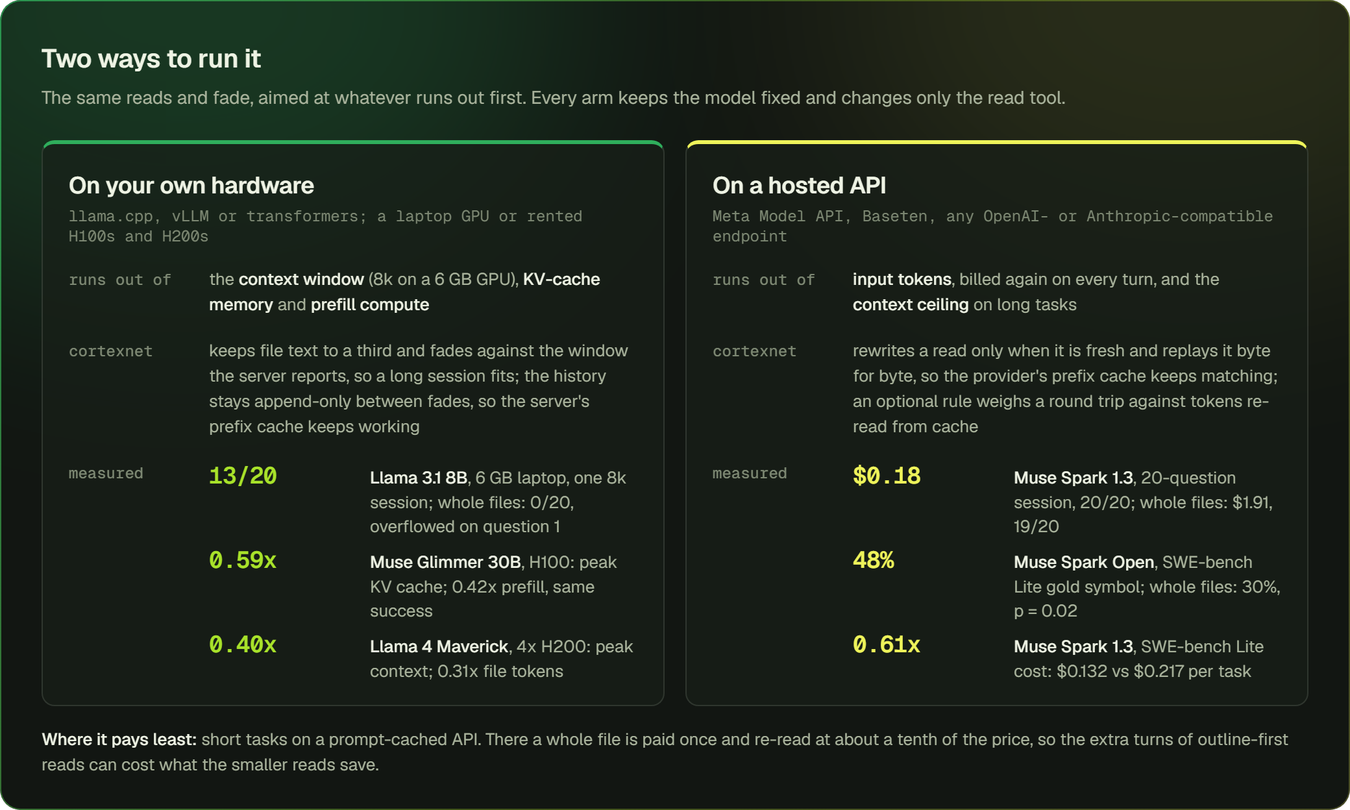
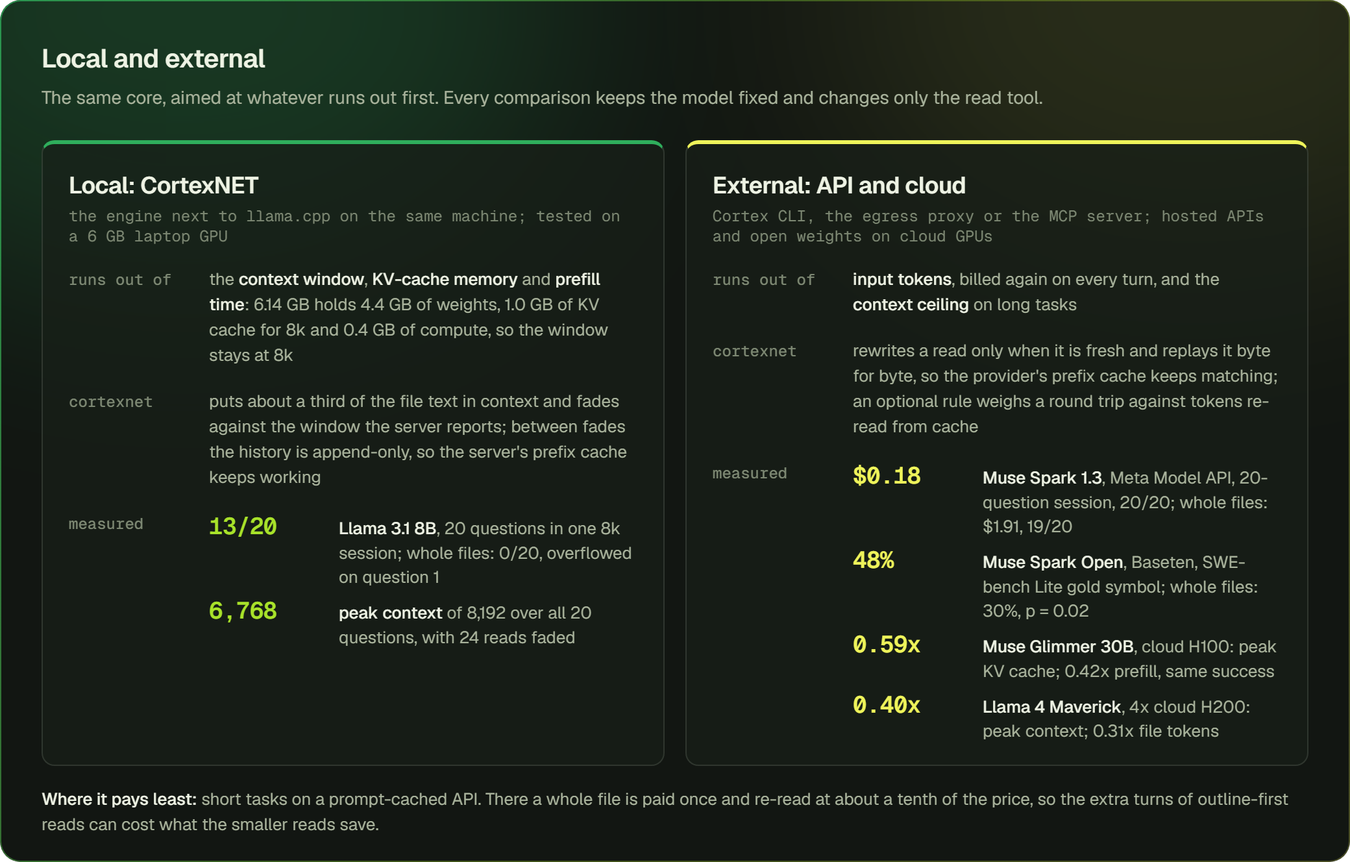
README: local CortexNET vs external sources (Cortex CLI for API and cloud models)

diff --git a/docs/readme/src/architecture.html b/docs/readme/src/architecture.html
@@ -1,9 +1,9 @@
 <!doctype html>
-<!-- README architecture: the CortexNET stack. Rendered to docs/readme/architecture.png by render.py (1040 x 664 CSS px at 2x). -->
+<!-- README architecture: one CortexNET core, local and external sides. Rendered to docs/readme/architecture.png by render.py (1040 x 720 CSS px at 2x). -->
 <html lang="en" style="color-scheme: dark">
 <head>
 <meta charset="utf-8">
-<title>The CortexNET stack</title>
+<title>CortexNET architecture</title>
 <link href="https://fonts.googleapis.com/css2?family=Geist:wght@400;500;600&family=Geist+Mono:wght@400;500&display=swap" rel="stylesheet">
 <style>
   :root {
@@ -11,95 +11,98 @@
     --green: #2fae5c; --lime: #a8e22a; --yellow: #eef35a; --rule: rgba(238, 243, 228, 0.12);
   }
   * { box-sizing: border-box; margin: 0; }
-  html, body { width: 1040px; height: 664px; background: transparent; overflow: hidden; }
+  html, body { width: 1040px; height: 720px; background: transparent; overflow: hidden; }
   body { font-family: 'Geist', 'Segoe UI', sans-serif; color: var(--ink); -webkit-font-smoothing: antialiased; }
-  .card { position: relative; width: 1040px; height: 664px; border-radius: 16px; overflow: hidden; padding: 32px; background: var(--paper); }
-  .card::before { content: ""; position: absolute; left: -200px; top: -220px; width: 640px; height: 440px; border-radius: 50%;
-    background: var(--green); opacity: 0.22; filter: blur(90px); }
+  .card { position: relative; width: 1040px; height: 720px; border-radius: 16px; overflow: hidden; padding: 32px; background: var(--paper); }
+  .glow { position: absolute; border-radius: 50%; filter: blur(90px); }
+  .g1 { left: -180px; top: -200px; width: 600px; height: 420px; background: var(--green); opacity: 0.22; }
+  .g2 { right: -160px; top: -200px; width: 560px; height: 400px; background: var(--yellow); opacity: 0.10; }
   .card::after { content: ""; position: absolute; inset: 0; border-radius: 16px; padding: 1px;
-    background: linear-gradient(120deg, rgba(47,174,92,0.8), rgba(168,226,42,0.3) 50%, rgba(238,243,228,0.08));
+    background: linear-gradient(120deg, rgba(47,174,92,0.8), rgba(168,226,42,0.3) 50%, rgba(238,243,90,0.25));
     -webkit-mask: linear-gradient(#000 0 0) content-box, linear-gradient(#000 0 0); -webkit-mask-composite: xor; }
   .content { position: relative; }
   h1 { font-size: 20px; font-weight: 600; letter-spacing: -0.01em; text-wrap: balance; }
   .caption { margin-top: 8px; font-size: 14px; color: var(--muted); }
 
-  .stack { margin-top: 24px; display: grid; gap: 8px; }
-  .layer { display: grid; grid-template-columns: 120px 1fr; gap: 12px; align-items: stretch; }
-  .lname { padding-top: 12px; font: 500 12px 'Geist Mono', Consolas, monospace; color: var(--soft); }
-  .cells { display: grid; gap: 8px; }
-  .cell { padding: 12px 16px; border-radius: 6px; background: var(--cell); border: 1px solid var(--rule); }
-  .cell h2 { font-size: 15px; font-weight: 600; }
-  .cell p { margin-top: 4px; font: 400 12px/1.5 'Geist Mono', Consolas, monospace; color: var(--muted); }
-  .cell p.limit { color: var(--ink); }
+  .cols { margin-top: 24px; display: grid; grid-template-columns: 1fr 32px 1.02fr 32px 1.3fr; align-items: stretch; }
+  .gut { display: flex; align-items: center; justify-content: center; }
+  .panel { border-radius: 10px; border: 1px solid var(--rule); background: rgba(24,32,24,0.7); padding: 16px; }
+  .panel.local { border-top: 3px solid var(--green); }
+  .panel.ext { border-top: 3px solid var(--yellow); }
+  .head { display: flex; align-items: baseline; gap: 8px; flex-wrap: wrap; }
+  .panel h2 { font-size: 18px; font-weight: 600; letter-spacing: -0.01em; }
+  .tag { font: 500 12px 'Geist Mono', Consolas, monospace; padding: 2px 6px; border-radius: 4px; border: 1px solid var(--rule); }
+  .local .tag { color: var(--lime); }
+  .ext .tag { color: var(--yellow); }
+  .lede { margin-top: 8px; font-size: 13px; line-height: 1.5; color: var(--muted); }
 
-  .agents .cells { grid-template-columns: repeat(6, 1fr); }
-  .agents .cell { padding: 10px 12px; background: rgba(169,179,156,0.08); text-align: center; font-size: 14px; font-weight: 500; }
-  .ways .cells { grid-template-columns: repeat(4, 1fr); }
+  .k { margin-top: 14px; font: 500 12px 'Geist Mono', Consolas, monospace; color: var(--soft); }
+  .item { margin-top: 6px; padding: 8px 10px; border-radius: 6px; background: var(--cell); border: 1px solid var(--rule); }
+  .item b { display: block; font-size: 14px; font-weight: 600; }
+  .item span { display: block; margin-top: 2px; font: 400 12px/1.45 'Geist Mono', Consolas, monospace; color: var(--muted); }
+  .limit { margin-top: 6px; font: 400 12px/1.5 'Geist Mono', Consolas, monospace; color: var(--ink); }
+  .ways .item b, .ways .item span { display: inline; }
+  .ways .item span { margin-left: 6px; }
 
-  .core .lname { color: var(--lime); }
-  .core .cells { grid-template-columns: 1.15fr 1fr 1fr 1fr; padding: 8px; border-radius: 8px; position: relative;
-    background: rgba(168,226,42,0.07); }
-  .core .cells::before { content: ""; position: absolute; inset: 0; border-radius: 8px; padding: 1.5px;
-    background: linear-gradient(110deg, var(--green), var(--lime) 55%, var(--yellow));
+  .core { position: relative; border-radius: 10px; padding: 16px; background: rgba(168,226,42,0.07); }
+  .core::before { content: ""; position: absolute; inset: 0; border-radius: 10px; padding: 1.5px;
+    background: linear-gradient(160deg, var(--green), var(--lime) 55%, var(--yellow));
     -webkit-mask: linear-gradient(#000 0 0) content-box, linear-gradient(#000 0 0); -webkit-mask-composite: xor; }
-  .core .cell { background: rgba(18,22,18,0.75); }
-
-  .models .cells { grid-template-columns: 1fr 1fr; }
-  .models .cell { background: rgba(238,243,228,0.03); border-color: rgba(238,243,228,0.24); }
-  .models .cell.local { border-left: 3px solid var(--green); }
-  .models .cell.hosted { border-left: 3px solid var(--yellow); }
-
-  .note { margin-top: 16px; padding-top: 12px; border-top: 1px solid var(--rule); font-size: 13px; color: var(--muted); }
-  .note b { color: var(--ink); font-weight: 500; }
+  .core h2 { font-size: 18px; font-weight: 600; }
+  .core .item { background: rgba(18,22,18,0.8); }
+  .core .foot { margin-top: 12px; font-size: 13px; line-height: 1.45; color: var(--muted); }
+  .core .foot b { color: var(--ink); font-weight: 500; }
 </style>
 </head>
 <body>
-<div class="card"><div class="content">
-  <h1>The CortexNET stack</h1>
-  <p class="caption">A context layer between any coding agent and any model, local or hosted. The agent's tools and prompts stay as they are.</p>
+<div class="card">
+  <div class="glow g1"></div><div class="glow g2"></div>
+  <div class="content">
+    <h1>One engine, local or external</h1>
+    <p class="caption">The core decides which file text reaches the model. Locally it runs next to your own model; external sources reach the same core.</p>
 
-  <div class="stack">
-    <div class="layer agents">
-      <p class="lname">agents</p>
-      <div class="cells">
-        <div class="cell">Claude Code</div><div class="cell">Codex</div><div class="cell">Antigravity</div>
-        <div class="cell">any MCP client</div><div class="cell">your own loop</div><div class="cell">Cortex CLI</div>
+    <div class="cols">
+      <div class="panel local">
+        <div class="head"><h2>Local</h2><span class="tag">CortexNET</span></div>
+        <p class="lede">The engine next to a model on your own GPU, inside your own agent loop.</p>
+        <p class="k">way in</p>
+        <div class="item"><b>Python library</b><span>Reader, watermark_fade</span></div>
+        <p class="k">model</p>
+        <div class="item"><b>llama.cpp on the same machine</b><span>tested: Llama 3.1 8B on a 6 GB laptop GPU, 8k context</span></div>
+        <p class="k">runs out of</p>
+        <p class="limit">the context window, KV-cache memory and prefill time</p>
       </div>
-    </div>
 
-    <div class="layer ways">
-      <p class="lname">ways in</p>
-      <div class="cells">
-        <div class="cell"><h2>MCP server</h2><p>cortex_read, cortex_range, cortex_outline tools</p></div>
-        <div class="cell"><h2>Egress proxy</h2><p>swaps whole-file reads in the agent's API traffic; no tool changes</p></div>
-        <div class="cell"><h2>Python library</h2><p>Reader and watermark_fade inside your own agent loop</p></div>
-        <div class="cell"><h2>Built in</h2><p>Cortex CLI, a terminal coding agent with all of it inside</p></div>
+      <div class="gut"><svg width="32" height="16" viewBox="0 0 32 16" aria-hidden="true"><path d="M2 8 H30 M8 3 L2 8 L8 13 M24 3 L30 8 L24 13" fill="none" stroke="#a9b39c" stroke-width="1.2"/></svg></div>
+
+      <div class="core">
+        <h2>CortexNET core</h2>
+        <div class="item"><b>Reads</b><span>outline + the bodies an include model picks; small files whole</span></div>
+        <div class="item"><b>Context</b><span>watermark fade: at 85%, stale reads become outlines, down to 50%, in one batch</span></div>
+        <div class="item"><b>Anticipation</b><span>a spiking file manager predicts the next files</span></div>
+        <div class="item"><b>Learning</b><span>every range read is a miss that trains the include model, kept across sessions</span></div>
+        <p class="foot"><b>It never calls your model.</b> It shapes the reads the model is given.</p>
       </div>
-    </div>
 
-    <div class="layer core">
-      <p class="lname">cortexnet core</p>
-      <div class="cells">
-        <div class="cell"><h2>Reads</h2><p>outline + the bodies an include model picks; small files whole; optional cost rule for prefix-cached APIs</p></div>
-        <div class="cell"><h2>Context</h2><p>watermark fade: at 85% stale reads become outlines, down to 50%, in one batch (CLI, your own loop)</p></div>
-        <div class="cell"><h2>Anticipation</h2><p>spiking file manager predicts the next files; the CLI parses them before they are asked for</p></div>
-        <div class="cell"><h2>Learning</h2><p>every range read is a miss that trains the include model, kept across sessions</p></div>
-      </div>
-    </div>
+      <div class="gut"><svg width="32" height="16" viewBox="0 0 32 16" aria-hidden="true"><path d="M2 8 H30 M8 3 L2 8 L8 13 M24 3 L30 8 L24 13" fill="none" stroke="#a9b39c" stroke-width="1.2"/></svg></div>
 
-    <div class="layer models">
-      <p class="lname">models</p>
-      <div class="cells">
-        <div class="cell local"><h2>Your hardware</h2><p>llama.cpp, vLLM, transformers: a 6 GB laptop GPU up to 4x H200</p>
-          <p class="limit">runs out of: context window, KV-cache memory, prefill compute</p></div>
-        <div class="cell hosted"><h2>Hosted API</h2><p>Meta Model API, Baseten, any OpenAI- or Anthropic-compatible endpoint</p>
-          <p class="limit">runs out of: input tokens billed on every turn, the context ceiling</p></div>
+      <div class="panel ext">
+        <div class="head"><h2>External sources</h2><span class="tag">API and cloud models</span></div>
+        <p class="lede">Agents and models that run somewhere else reach the same core.</p>
+        <p class="k">ways in</p>
+        <div class="ways">
+          <div class="item"><b>Cortex CLI</b><span>made to be tested on API and cloud models</span></div>
+          <div class="item"><b>Egress proxy</b><span>Claude Code, Codex, Antigravity, unchanged</span></div>
+          <div class="item"><b>MCP server</b><span>any MCP client</span></div>
+        </div>
+        <p class="k">models</p>
+        <div class="item"><b>Hosted APIs</b><span>Meta Model API (Muse Spark 1.3), Baseten (Muse Spark Open)</span></div>
+        <div class="item"><b>Cloud GPUs</b><span>open weights on Modal: Muse Glimmer 30B, Llama 3.3 70B, Llama 4 Maverick</span></div>
+        <p class="k">runs out of</p>
+        <p class="limit">input tokens billed on every turn, and the context ceiling on long tasks</p>
       </div>
     </div>
   </div>
-
-  <p class="note"><b>The core never calls your model.</b> It decides which file text reaches the model's context, so the same reads and fade
-    work for an open model on your own GPU and for a paid API.</p>
-</div></div>
+</div>
 </body>
 </html>

diff --git a/docs/readme/src/deployments.html b/docs/readme/src/deployments.html
@@ -1,9 +1,9 @@
 <!doctype html>
-<!-- README: CortexNET on your own hardware vs on a hosted API. Rendered to docs/readme/deployments.png by render.py (1040 x 624 CSS px at 2x). -->
+<!-- README: CortexNET locally vs external sources (API and cloud models). Rendered to docs/readme/deployments.png by render.py (1040 x 664 CSS px at 2x). -->
 <html lang="en" style="color-scheme: dark">
 <head>
 <meta charset="utf-8">
-<title>Local and hosted</title>
+<title>Local and external</title>
 <link href="https://fonts.googleapis.com/css2?family=Geist:wght@400;500;600&family=Geist+Mono:wght@400;500;600&display=swap" rel="stylesheet">
 <style>
   :root {
@@ -11,9 +11,9 @@
     --green: #2fae5c; --lime: #a8e22a; --yellow: #eef35a; --rule: rgba(238, 243, 228, 0.12);
   }
   * { box-sizing: border-box; margin: 0; }
-  html, body { width: 1040px; height: 624px; background: transparent; overflow: hidden; }
+  html, body { width: 1040px; height: 664px; background: transparent; overflow: hidden; }
   body { font-family: 'Geist', 'Segoe UI', sans-serif; color: var(--ink); -webkit-font-smoothing: antialiased; }
-  .card { position: relative; width: 1040px; height: 624px; border-radius: 16px; overflow: hidden; padding: 32px; background: var(--paper); }
+  .card { position: relative; width: 1040px; height: 664px; border-radius: 16px; overflow: hidden; padding: 32px; background: var(--paper); }
   .glow { position: absolute; border-radius: 50%; filter: blur(90px); }
   .g1 { left: -160px; top: -200px; width: 600px; height: 420px; background: var(--green); opacity: 0.22; }
   .g2 { right: -160px; top: -200px; width: 560px; height: 400px; background: var(--yellow); opacity: 0.10; }
@@ -36,7 +36,7 @@
   .v { font-size: 13px; line-height: 1.5; color: var(--muted); }
   .v b { color: var(--ink); font-weight: 500; }
 
-  .m { display: grid; grid-template-columns: 112px 1fr; gap: 4px 12px; align-items: baseline; }
+  .m { display: grid; grid-template-columns: 88px 1fr; gap: 4px 12px; align-items: baseline; }
   .n { font: 600 18px 'Geist Mono', Consolas, monospace; letter-spacing: -0.02em; white-space: nowrap; font-variant-numeric: tabular-nums; }
   .local .n { color: var(--lime); }
   .hosted .n { color: var(--yellow); }
@@ -51,29 +51,29 @@
 <div class="card">
   <div class="glow g1"></div><div class="glow g2"></div>
   <div class="content">
-    <h1>Two ways to run it</h1>
-    <p class="caption">The same reads and fade, aimed at whatever runs out first. Every arm keeps the model fixed and changes only the read tool.</p>
+    <h1>Local and external</h1>
+    <p class="caption">The same core, aimed at whatever runs out first. Every comparison keeps the model fixed and changes only the read tool.</p>
 
     <div class="cols">
       <div class="col local">
-        <h2>On your own hardware</h2>
-        <p class="where">llama.cpp, vLLM or transformers; a laptop GPU or rented H100s and H200s</p>
+        <h2>Local: CortexNET</h2>
+        <p class="where">the engine next to llama.cpp on the same machine; tested on a 6 GB laptop GPU</p>
         <div class="row"><p class="k">runs out of</p>
-          <p class="v">the <b>context window</b> (8k on a 6 GB GPU), <b>KV-cache memory</b> and <b>prefill compute</b></p></div>
+          <p class="v">the <b>context window</b>, <b>KV-cache memory</b> and <b>prefill time</b>: 6.14 GB holds 4.4 GB of weights,
+            1.0 GB of KV cache for 8k and 0.4 GB of compute, so the window stays at 8k</p></div>
         <div class="row"><p class="k">cortexnet</p>
-          <p class="v">keeps file text to a third and fades against the window the server reports, so a long session fits; the
-            history stays append-only between fades, so the server's prefix cache keeps working</p></div>
+          <p class="v">puts about a third of the file text in context and fades against the window the server reports; between
+            fades the history is append-only, so the server's prefix cache keeps working</p></div>
         <div class="row"><p class="k">measured</p>
           <div class="m">
-            <p class="n">13/20</p><p class="d"><b>Llama 3.1 8B</b>, 6 GB laptop, one 8k session; whole files: 0/20, overflowed on question 1</p>
-            <p class="n">0.59x</p><p class="d"><b>Muse Glimmer 30B</b>, H100: peak KV cache; 0.42x prefill, same success</p>
-            <p class="n">0.40x</p><p class="d"><b>Llama 4 Maverick</b>, 4x H200: peak context; 0.31x file tokens</p>
+            <p class="n">13/20</p><p class="d"><b>Llama 3.1 8B</b>, 20 questions in one 8k session; whole files: 0/20, overflowed on question 1</p>
+            <p class="n">6,768</p><p class="d"><b>peak context</b> of 8,192 over all 20 questions, with 24 reads faded</p>
           </div></div>
       </div>
 
       <div class="col hosted">
-        <h2>On a hosted API</h2>
-        <p class="where">Meta Model API, Baseten, any OpenAI- or Anthropic-compatible endpoint</p>
+        <h2>External: API and cloud</h2>
+        <p class="where">Cortex CLI, the egress proxy or the MCP server; hosted APIs and open weights on cloud GPUs</p>
         <div class="row"><p class="k">runs out of</p>
           <p class="v"><b>input tokens</b>, billed again on every turn, and the <b>context ceiling</b> on long tasks</p></div>
         <div class="row"><p class="k">cortexnet</p>
@@ -81,9 +81,10 @@
             matching; an optional rule weighs a round trip against tokens re-read from cache</p></div>
         <div class="row"><p class="k">measured</p>
           <div class="m">
-            <p class="n">$0.18</p><p class="d"><b>Muse Spark 1.3</b>, 20-question session, 20/20; whole files: $1.91, 19/20</p>
-            <p class="n">48%</p><p class="d"><b>Muse Spark Open</b>, SWE-bench Lite gold symbol; whole files: 30%, p = 0.02</p>
-            <p class="n">0.61x</p><p class="d"><b>Muse Spark 1.3</b>, SWE-bench Lite cost: $0.132 vs $0.217 per task</p>
+            <p class="n">$0.18</p><p class="d"><b>Muse Spark 1.3</b>, Meta Model API, 20-question session, 20/20; whole files: $1.91, 19/20</p>
+            <p class="n">48%</p><p class="d"><b>Muse Spark Open</b>, Baseten, SWE-bench Lite gold symbol; whole files: 30%, p = 0.02</p>
+            <p class="n">0.59x</p><p class="d"><b>Muse Glimmer 30B</b>, cloud H100: peak KV cache; 0.42x prefill, same success</p>
+            <p class="n">0.40x</p><p class="d"><b>Llama 4 Maverick</b>, 4x cloud H200: peak context; 0.31x file tokens</p>
           </div></div>
       </div>
     </div>

diff --git a/docs/readme/src/workflow.html b/docs/readme/src/workflow.html
@@ -20,7 +20,7 @@
 <body>
 <svg width="1040" height="600" viewBox="0 0 1040 600" role="img" aria-labelledby="workflow-title workflow-desc">
   <title id="workflow-title">One read through CortexNET</title>
-  <desc id="workflow-desc">Whichever way the read arrives (MCP tool, proxied read, Cortex CLI or the Python library), CortexNET returns the
+  <desc id="workflow-desc">Whichever way the read arrives (CortexNET in your own loop locally, or Cortex CLI, the proxy or the MCP server for external sources), CortexNET returns the
     file's outline and the bodies its include model picks. If the agent needs a body it was not shown, it asks for those lines: the range read
     returns them and is logged as a miss that trains the include model for the next read. Otherwise the history is faded once it passes 85% of
     the context, down to 50%, and the next read starts. In Cortex CLI a spiking file manager warms the next files ahead of the read.</desc>
@@ -43,7 +43,7 @@
   <rect x="0.5" y="0.5" width="1039" height="599" rx="16" fill="none" stroke="url(#wf-edge)"/>
 
   <text class="title" x="32" y="48">One read through CortexNET</text>
-  <text class="caption" x="32" y="76">The same loop behind the MCP server, the proxy, Cortex CLI and the Python library, on any model.</text>
+  <text class="caption" x="32" y="76">The same loop locally (CortexNET in your own loop) and for external sources (Cortex CLI, the proxy, the MCP server).</text>
 
   <!-- connectors -->
   <line x1="332" y1="160" x2="332" y2="198" stroke="#a9b39c" stroke-width="1" stroke-dasharray="4,3" marker-end="url(#wf-arrow)"/>
@@ -104,7 +104,7 @@
   <text class="lbl" x="392" y="576">learning loop</text>
   <rect x="520" y="564" width="32" height="16" rx="3" fill="none" stroke="rgba(238,243,228,0.30)" stroke-dasharray="4,3"/>
   <text class="lbl" x="560" y="576">only in Cortex CLI</text>
-  <text class="lbl" x="728" y="576">Fade: Cortex CLI and your own loop.</text>
+  <text class="lbl" x="728" y="576">Fade: local CortexNET, Cortex CLI.</text>
 </svg>
 </body>
 </html>

diff --git a/docs/readme/src/hero.html b/docs/readme/src/hero.html
@@ -47,7 +47,7 @@
   .what { margin-top: 4px; font-size: 13px; line-height: 1.45; color: var(--muted); }
 
   .surfaces { position: absolute; left: 48px; right: 48px; bottom: 28px; display: flex; gap: 8px; align-items: center; font-size: 13px; color: var(--soft); }
-  .chip { font-family: 'Geist Mono', monospace; font-size: 12px; padding: 4px 8px; border-radius: 4px; border: 1px solid var(--rule); color: var(--ink); background: rgba(15,19,14,0.6); }
+  .chip { white-space: nowrap; font-family: 'Geist Mono', monospace; font-size: 12px; padding: 4px 8px; border-radius: 4px; border: 1px solid var(--rule); color: var(--ink); background: rgba(15,19,14,0.6); }
   .surfaces .note { margin-left: auto; }
 </style>
 </head>
@@ -56,7 +56,7 @@
   <div class="glow g1"></div><div class="glow g2"></div><div class="glow g3"></div>
   <div class="content">
     <h1>CortexNET gives a coding agent the outline of a file and only the code its next step needs.</h1>
-    <p class="lede">It sits between any coding agent and any model. On your own GPU it keeps a long session inside a small context window; on a hosted API it cuts the tokens you pay for.</p>
+    <p class="lede">Locally, CortexNET keeps a long coding session inside the small context window of a model on your own GPU. With API and cloud models, it cuts the tokens you pay for.</p>
 
     <div class="stats">
       <div class="stat">
@@ -82,8 +82,8 @@
     </div>
   </div>
   <div class="surfaces">
-    <span class="chip">MCP server</span><span class="chip">egress proxy</span><span class="chip">Python library</span><span class="chip">Cortex CLI</span>
-    <span class="note">Same model in both arms, only the read tool changes</span>
+    <span class="chip">CortexNET: local</span><span class="chip">Cortex CLI: API and cloud</span><span class="chip">egress proxy</span><span class="chip">MCP server</span>
+    <span class="note">Only the read tool changes between arms</span>
   </div>
 </div>
 </body>

diff --git a/docs/readme/src/render.py b/docs/readme/src/render.py
@@ -10,7 +10,7 @@ import tempfile
 
 HERE = os.path.dirname(os.path.abspath(__file__))
 OUT = os.path.dirname(HERE)
-PAGES = {"hero": (960, 424), "architecture": (1040, 664), "deployments": (1040, 624), "workflow": (1040, 600)}   # CSS px; each page fixes its body to this
+PAGES = {"hero": (960, 424), "architecture": (1040, 720), "deployments": (1040, 664), "workflow": (1040, 600)}   # CSS px; each page fixes its body to this
 BROWSERS = [r"C:\Program Files\Google\Chrome\Application\chrome.exe",
             r"C:\Program Files (x86)\Microsoft\Edge\Application\msedge.exe", "google-chrome", "chromium"]
 

diff --git a/README.md b/README.md
@@ -7,22 +7,22 @@
 
 <p align="center">
   <img src="docs/readme/hero.png" width="900"
-       alt="CortexNET gives a coding agent the outline of a file and only the code its next step needs. It sits between any coding agent and any model: on your own GPU it keeps a long session inside a small context window; on a hosted API it cuts the tokens you pay for. Results: Muse Spark 1.3, $0.18 vs $1.91 for a 20-question session at 20/20 correct (whole-file reads 19/20); Muse Spark Open, 48% vs 30% gold symbol on SWE-bench Lite (7 won, 0 lost, p = 0.02); Llama 3.1 8B, 13/20 vs 0/20 in one 8k session on a 6 GB laptop GPU; Muse Glimmer 30B, 0.42x prefill tokens on SWE-bench Lite with the same task success. Ways in: MCP server, egress proxy, Python library, Cortex CLI.">
+       alt="CortexNET gives a coding agent the outline of a file and only the code its next step needs. Locally, CortexNET keeps a long coding session inside the small context window of a model on your own GPU; with API and cloud models it cuts the tokens you pay for. Results: Muse Spark 1.3, $0.18 vs $1.91 for a 20-question session at 20/20 correct (whole-file reads 19/20); Muse Spark Open, 48% vs 30% gold symbol on SWE-bench Lite (7 won, 0 lost, p = 0.02); Llama 3.1 8B, 13/20 vs 0/20 in one 8k session on a 6 GB laptop GPU; Muse Glimmer 30B, 0.42x prefill tokens on SWE-bench Lite with the same task success. CortexNET runs locally; Cortex CLI, the egress proxy and the MCP server serve API and cloud models.">
 </p>
 
 <p align="center">
   <img src="docs/readme/architecture.png" width="900"
-       alt="The CortexNET stack. Agents: Claude Code, Codex, Antigravity, any MCP client, your own loop, Cortex CLI. Ways in: the MCP server (cortex_read, cortex_range, cortex_outline), the egress proxy (swaps whole-file reads in the agent's API traffic, no tool changes), the Python library (Reader and watermark_fade in your own loop), and Cortex CLI with all of it built in. The core: reads (outline plus the bodies an include model picks, small files whole, an optional cost rule for prefix-cached APIs), context (watermark fade from 85% to 50% in one batch, in Cortex CLI and your own loop), anticipation (a spiking file manager predicts the next files, which the CLI parses ahead), and learning (every range read is a miss that trains the include model, kept across sessions). Models: your hardware (llama.cpp, vLLM, transformers, from a 6 GB laptop GPU to 4x H200; it runs out of context window, KV-cache memory and prefill compute) or a hosted API (Meta Model API, Baseten, any OpenAI- or Anthropic-compatible endpoint; it runs out of input tokens billed on every turn and the context ceiling). The core never calls the model.">
+       alt="One engine, local or external. In the middle, the CortexNET core: reads (outline plus the bodies an include model picks, small files whole), context (watermark fade from 85% to 50% in one batch), anticipation (a spiking file manager predicts the next files) and learning (every range read is a miss that trains the include model, kept across sessions); it never calls the model. Left, Local: CortexNET as a Python library (Reader, watermark_fade) in your own agent loop, next to llama.cpp on the same machine, tested with Llama 3.1 8B on a 6 GB laptop GPU at 8k context; it runs out of context window, KV-cache memory and prefill time. Right, External sources (API and cloud models): ways in are Cortex CLI (made to be tested on API and cloud models), the egress proxy (Claude Code, Codex, Antigravity, unchanged) and the MCP server (any MCP client); models are hosted APIs (Meta Model API with Muse Spark 1.3, Baseten with Muse Spark Open) and open weights on Modal cloud GPUs (Muse Glimmer 30B, Llama 3.3 70B, Llama 4 Maverick); they run out of input tokens billed on every turn and the context ceiling.">
 </p>
 
 <p align="center">
   <img src="docs/readme/deployments.png" width="900"
-       alt="Two ways to run it. On your own hardware, the context window, KV-cache memory and prefill compute run out; CortexNET keeps file text to a third and fades against the window the server reports, with an append-only history between fades so the prefix cache keeps working. Measured: Llama 3.1 8B on a 6 GB laptop, 13/20 in one 8k session vs 0/20 with whole files, which overflowed on question 1; Muse Glimmer 30B on an H100, 0.59x peak KV cache and 0.42x prefill at the same success; Llama 4 Maverick on 4x H200, 0.40x peak context and 0.31x file tokens. On a hosted API, input tokens billed on every turn and the context ceiling run out; CortexNET rewrites a read only when it is fresh and replays it byte for byte so the provider's prefix cache keeps matching, with an optional rule that weighs a round trip against tokens re-read from cache. Measured: Muse Spark 1.3, $0.18 vs $1.91 for a 20-question session; Muse Spark Open, 48% vs 30% gold symbol on SWE-bench Lite (p = 0.02); Muse Spark 1.3, 0.61x SWE-bench cost ($0.132 vs $0.217 per task). Where it pays least: short tasks on a prompt-cached API.">
+       alt="Local and external. Local, CortexNET next to llama.cpp on a 6 GB laptop GPU: the context window, KV-cache memory and prefill time run out (6.14 GB holds 4.4 GB of weights, 1.0 GB of KV cache for 8k and 0.4 GB of compute, so the window stays at 8k). CortexNET puts about a third of the file text in context, fades against the window the server reports, and keeps the history append-only between fades. Measured: Llama 3.1 8B, 13/20 over 20 questions in one 8k session vs 0/20 with whole files, which overflowed on question 1; peak context 6,768 of 8,192 with 24 reads faded. External, API and cloud through Cortex CLI, the egress proxy or the MCP server: input tokens billed on every turn and the context ceiling run out; CortexNET rewrites a read only when it is fresh and replays it byte for byte so the prefix cache keeps matching. Measured: Muse Spark 1.3 on the Meta Model API, $0.18 vs $1.91 for a 20-question session; Muse Spark Open on Baseten, 48% vs 30% SWE-bench Lite gold symbol (p = 0.02); Muse Glimmer 30B on a cloud H100, 0.59x peak KV cache and 0.42x prefill; Llama 4 Maverick on 4 cloud H200s, 0.40x peak context and 0.31x file tokens. Where it pays least: short tasks on a prompt-cached API.">
 </p>
 
 <p align="center">
   <img src="docs/readme/workflow.png" width="900"
-       alt="One read through CortexNET, the same behind the MCP server, the proxy, Cortex CLI and the Python library. A file read arrives from any way in; CortexNET returns the outline and the bodies its include model picks. The agent works with it. If it needs a body it was not shown, a range read returns those lines and is logged as a miss that trains the include model for the next read. Otherwise the watermark fade shrinks the history at 85% down to 50% (in Cortex CLI and your own loop), and the next turn starts. In Cortex CLI a spiking file manager warms the next files ahead of the read.">
+       alt="One read through CortexNET, the same locally (CortexNET in your own loop) and for external sources (Cortex CLI, the proxy, the MCP server). A file read arrives; CortexNET returns the outline and the bodies its include model picks. The agent works with it. If it needs a body it was not shown, a range read returns those lines and is logged as a miss that trains the include model for the next read. Otherwise the watermark fade shrinks the history at 85% down to 50%, and the next turn starts. In Cortex CLI a spiking file manager warms the next files ahead of the read.">
 </p>
 
 A coding agent normally pulls whole files into its context. CortexNET sits between the agent and the code so it works
@@ -36,10 +36,11 @@ through a long coding session, and hosted models do the same work for a fraction
   of the context, then one batch shrinks stale reads, oldest first, to 50%: superseded copies of a file become a
   pointer, stale reads become their outline or a pointer.
 
-It works with any agent and any model, local or hosted, through four ways in: an MCP server, an egress proxy in front
-of any agent (Claude Code, Codex, Antigravity), a Python library for your own agent loop (`Reader`,
-`cortexnet.fade.watermark_fade`), and Cortex CLI, a terminal coding agent built around it (task card, scouts, a spiking
-file manager that warms the files the model will want).
+**Two versions.** Locally, **CortexNET** runs next to a model on your own GPU, as a Python library inside your agent
+loop (`Reader`, `cortexnet.fade.watermark_fade`). For external sources, API and cloud models, the same core is reached
+through **Cortex CLI**, a terminal coding agent made to be tested on API and cloud models (task card, scouts, a spiking
+file manager that warms the files the model will want), an egress proxy in front of any agent (Claude Code, Codex,
+Antigravity) and an MCP server for any MCP client.
 
 ## Meta Global AI Developer Hackathon
 
@@ -86,7 +87,7 @@ reads hit the context limit, CortexNET the call limit), and Muse Spark Open ofte
 calling `submit`, more often in CortexNET's longer episodes (unenforced: 10% vs 38% gold symbol); Llama 3.3 70B
 submitted a guess on its first turn unless a submit required reading the file. All runs are in `debut.md`.
 
-### Llama 3.1 8B on a 6 GB laptop GPU
+### CortexNET locally: Llama 3.1 8B on a 6 GB laptop GPU
 
 RTX 3050 Laptop (6 GB), Llama 3.1 8B Instruct Q4_K_M in llama.cpp (`-ngl 99 -c 8192`), 20 code questions about this
 repo and the Python standard library, asked **in one conversation per arm** so the context accumulates as in a real
@@ -228,6 +229,8 @@ the cost-aware include rule. State goes to `$CORTEXNET_STATE` or `./.cortexnet/`
 `cortexnet.fade.watermark_fade`.
 
 ### Cortex CLI: a terminal coding agent
+
+Cortex CLI was made to be tested on API and cloud models.
 
 ```
 pip install -e .                                   # installs the `cortex` command
